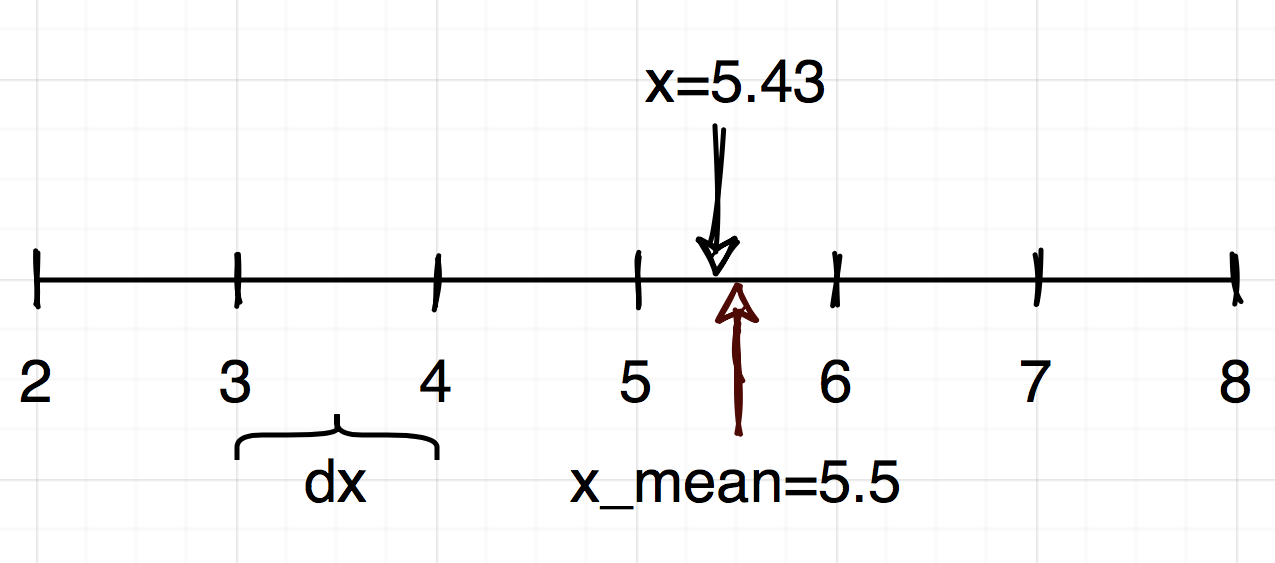
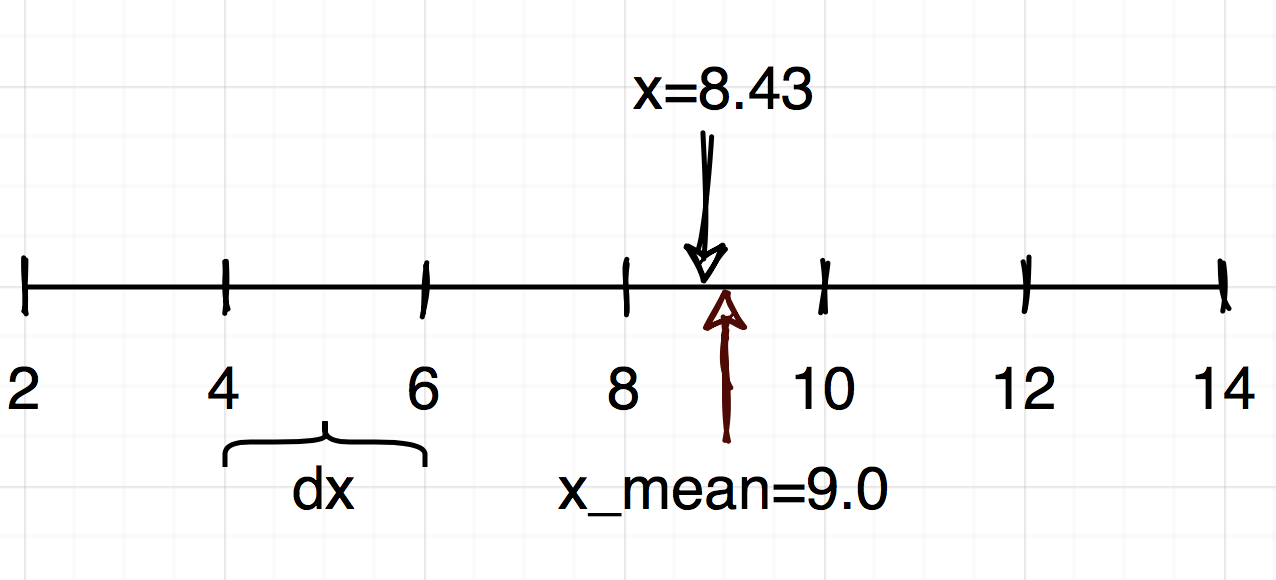
more docs

diff --git a/docs/implementation.rst b/docs/implementation.rst
@@ -10,32 +10,33 @@ For all trajectory's points within the cell  we calculate the mean value and put
 For one dimensional cell, the procedure for mean value :math:`x_{mean}` calculation will look like.
 
 .. math::
-    A=2; B=8; m=6; x=5.43
+    A=2; B=14; m=6; x=8.43
 
-    dx = (B - A)/m =1
+    dx = (B - A)/m =2
 
     i = ceil((x - A) / dx) = 4
 
-    x_{mean}= A + dx * (i - 0.5) = 2+3.5=5.5
+    x_{mean}= A + dx * (i - 0.5) = 2+2*3.5=9
 
 
 ..  image:: pics/middlex.png
   :width: 400
   :alt: Alternative text
 
-Therefore, for :math:`x_{mean} = 5.5, \forall x\in[5,6]`.
+Therefore,  :math:`x_{mean} = 9, \forall x\in[8,10]`, taking care of border cases.
 
-For the corresponding timestamps we calculate the mean value as well.
+After tesselating  the surface into :math:`x\times m` rectangulars, and projecting the coordinates into the  center of cell,
+we calculate the timestamp for that cell as mean of the timestamps, while the object was within the  cell.
 
 .. math::
 
-    (x_{cell^j}, y_{cell^j}) = \frac{1}{k}\sum_{i=1,k}{x^i_{cell^j}, y^i_{cell^j}},
+    (x^j, y^j) = (x^j_{mean}, y^j_{mean}),
 
-    t_{cell^j} = \frac{1}{k}\sum_{i=1,k}{t^i_{cell^j}},
+    t^j = \frac{1}{k}\sum_{i=1,k}{t^j_i},
 
 
 
-where :math:`j\in[1, n\times m]`,  `k` -- is the number of points for the trajectory
+where :math:`\forall j\in[1, n\times m]`,  `k` -- is the number of points of the trajectory
 (and timestamps) while object was within cell `j`, and (`n, m`) are the number of
 splits along latitude and longitude.
 
@@ -67,12 +68,11 @@ State vectors and Transition  Matrix
 ------------------------------------
 
 
-The :math:`n\times m` cells form :math:`n\times m`  states of the Markov process.
+All :math:`n\times m` cells form a state vector of  :math:`n\times m`  length in the Markov process.
 
-The transition between cell along the trajectory corresponds to the  move  between states.
+Transition between cells along the trajectory corresponds to   move  between states.
 
-The vector describing the state of the system in the cell :math:`(i,j)` has length of :math:`n\times m`,
-and the only non-zero element in this vector  is located at  the :math:`m(i-1) + j` position.
+The only non-zero element in this vector  is located at  the :math:`m(i-1) + j` position.
 
 For example, on the figure below, the blackened cell will correspond to the nonzero entry at :math:`(i,j)=(3,3)=>m(i-1) + j = 4*2+3=11`.
 
@@ -88,22 +88,50 @@ The transition matrix is the square matrix, whose  elements :math:`a(i,j)` are  
 
 
 
-State vector for distributed state and Transition Matrix
---------------------------------------------------------
+State vector for "distributed state" and Transition Matrix
+----------------------------------------------------------
 
 
 In  the text above we assumed that the object  is located in the single cell, e.g. :math:`c(i,j)`.
-The more general case is to assume that the location of the object is not known exactly, but with certain probability.
-For example, one may think that the probability of the object location is smeared out over the 9 cells:
+
+A more general case is to assume that the location of the object is not known exactly, but with certain probability.
+For example, one may think that the probability of the object location is smeared out over  `q` cells around a central cell,
+:math:`c_{ij}`:
 
 .. math::
 
-    \sum_{k=1}^{9}p_{k}(c_{ij}) = 1,
+    \sum_{k=1}^{q}p_{k}(c_{ij}) = 1,
 
 
 where :math:`p_{k}(c_{ij})` is the probability of the object to be located at the `k`-th neighbour of  the central
-cell :math:`c_{ij}`, and summing is done for all the neighbours.
+cell :math:`c_{ij}`, and summing is done for all the neighbours, including  the central  cell.
 
 
-In  this case the system is in the distributed state, and it's state vector has 9 nonzero entries, summing up to 1.
+In  this case the system is in a *distributed state*, and it's state vector has `q` nonzero entries (out of :math:`n\times m`, summing up to 1.
 
+A transition  matrix in this case will have the same meaning, but will have move complex structure.
+Lets assume that `q=9`, i.e. the state will be distributed among 9 cells:
+
+
+    +-------------+------------+------------+
+    |`m(i-1)+j-1` | `m(i-1)+j` |`m(i-1)+j+1`|
+    +-------------+------------+------------+
+    | `mi+j-1`    |  `mi+j`    | `mi+j+1`   |
+    +-------------+------------+------------+
+    |`m(i+1)+j-1` | `m(i+1)+j` |`m(i+1)+j+1`|
+    +-------------+------------+------------+
+
+:math:`(mi + j)` being the central cell, and `m` -- the number  of columns.
+
+Those 9  states will give rise to :math:`9\times 9=81` entries in the transition matrix between two states with central cells
+:math:`(i_1, j_1) (blue)\to (i_2, j_2) (red)`.
+
+
+
+..  image:: pics/od_distr.png
+  :width: 400
+  :alt: Alternative text
+
+The gap of length `m` is shown with the curly bracket. For `q=1` that is than the distribution is a Dirak's delta function,
+a state would be described by 1 number and the transition by 1 number as well. For case `q=25` (two layers of neghbours),
+the state would be given by 25 numbers, and the transition by 625 numbers.
